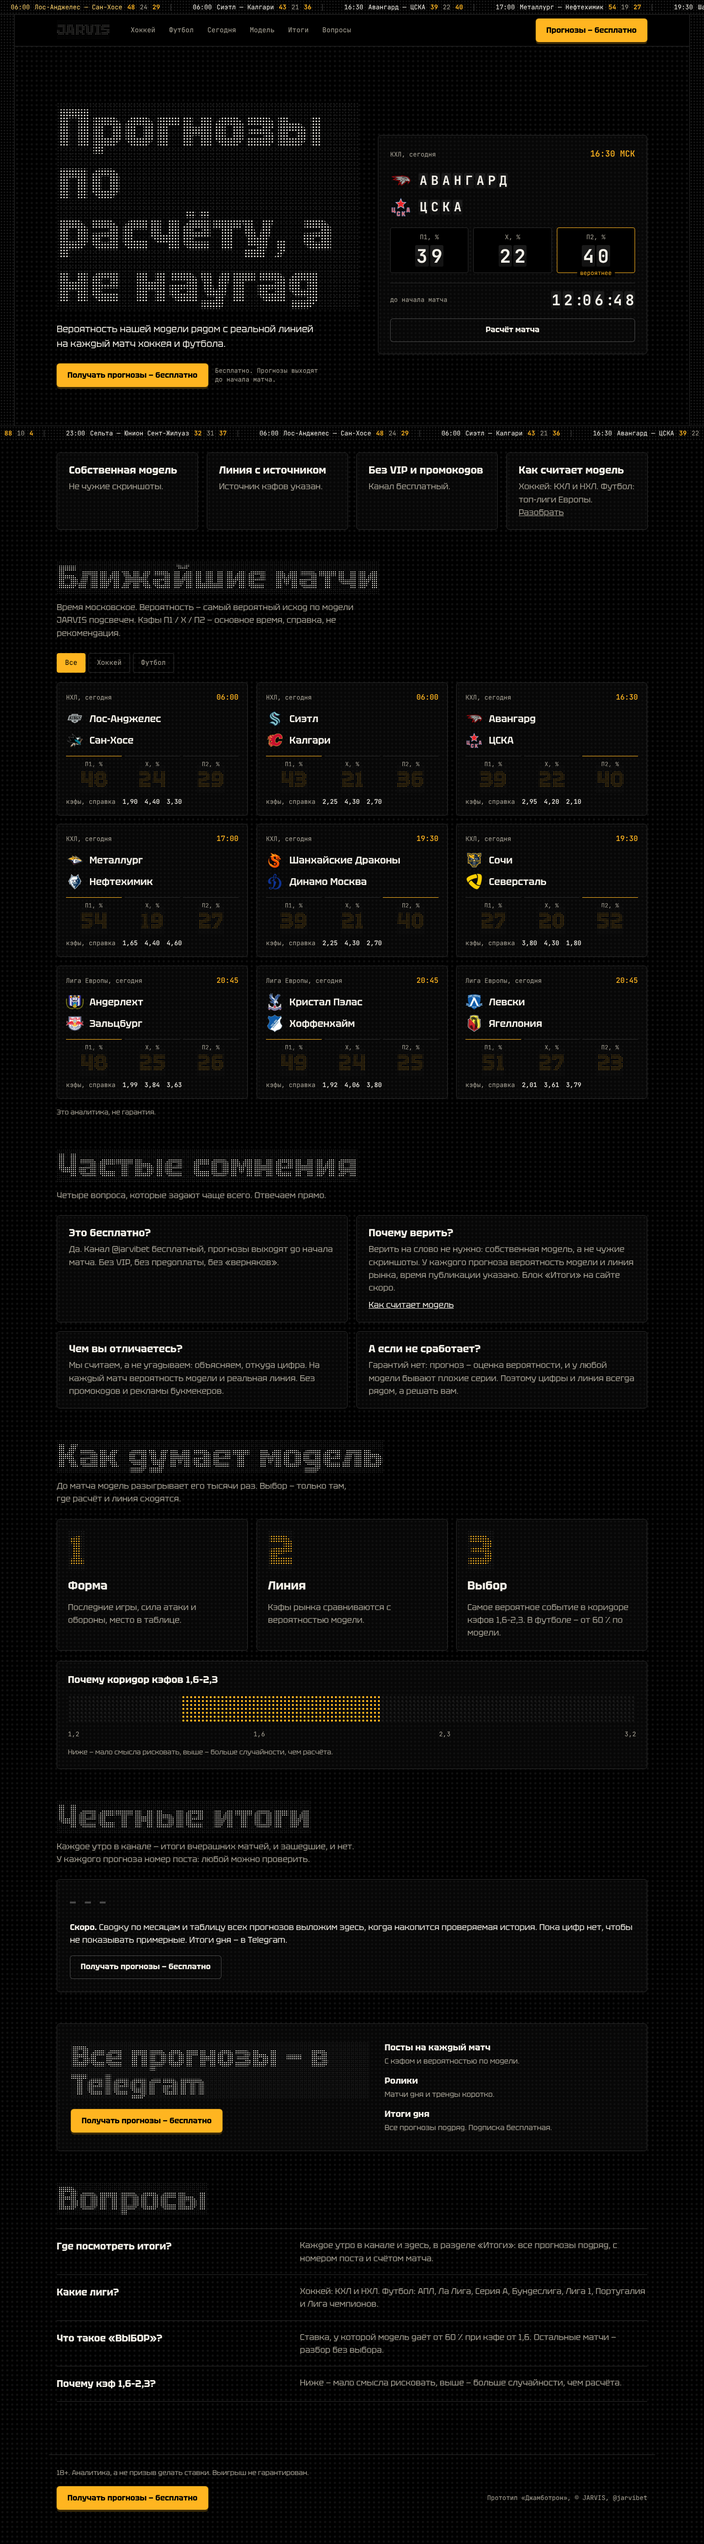
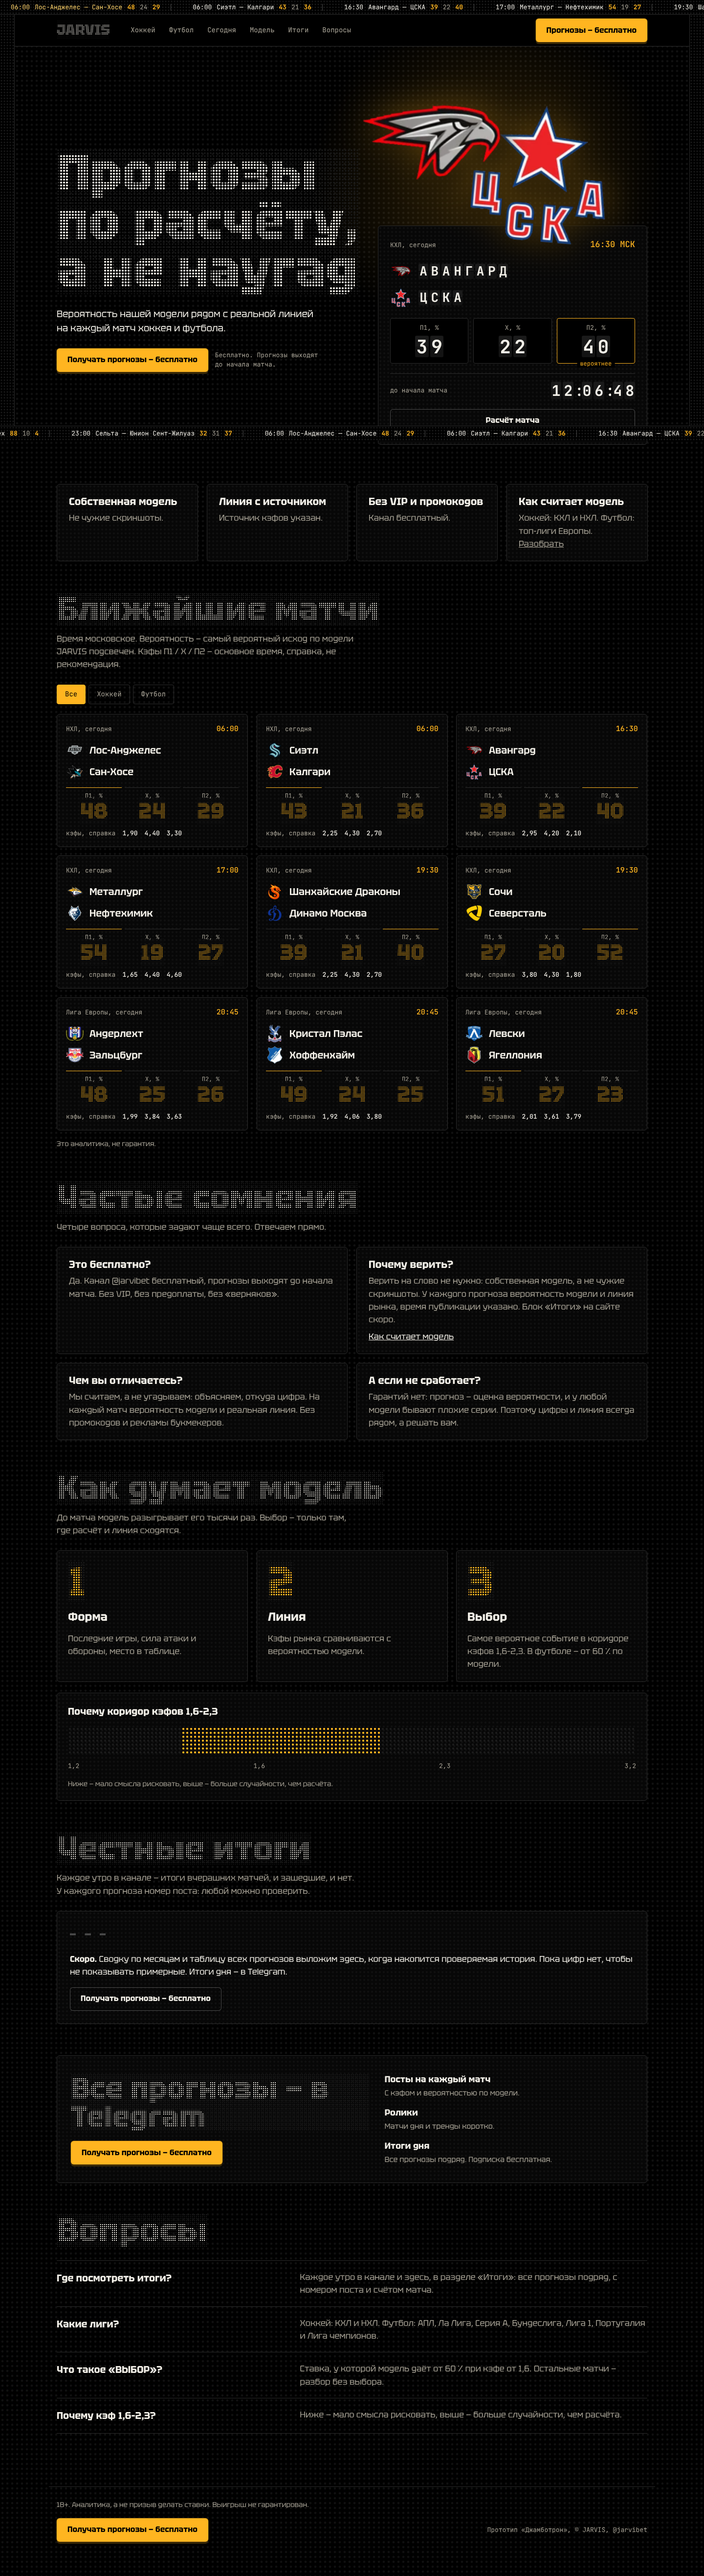
Сайт v3a, jumbo: главная с эмблемами перед светодиодным заголовком
Claude-Session: https://claude.ai/code/session_018beMsGW2KNWUfPTL8TDXYR

diff --git a/team/site/v3a/proto/jumbo/jumbo.css b/team/site/v3a/proto/jumbo/jumbo.css
@@ -50,7 +50,7 @@ button { font: inherit; color: inherit; background: none; border: 0; padding: 0;
   --c: var(--ink); --d: 5px;
   font-family: var(--f-d); font-weight: 800; line-height: 0.98; color: transparent; width: fit-content; max-width: 100%;
   overflow-wrap: break-word; min-width: 0;
-  background-image: radial-gradient(circle at 50% 50%, var(--c) 0 31%, transparent 43%), radial-gradient(circle at 50% 50%, var(--off) 0 31%, transparent 43%);
+  background-image: radial-gradient(circle at 50% 50%, var(--c) 0 40%, transparent 52%), radial-gradient(circle at 50% 50%, var(--off) 0 31%, transparent 43%);
   background-size: var(--d) var(--d);
   -webkit-background-clip: text, border-box; background-clip: text, border-box;
 }
@@ -157,7 +157,20 @@ body.has-ring { padding: var(--ring) 0; }
 
 /* ───────── hero ───────── */
 .hero { display: grid; grid-template-columns: minmax(0, 1.12fr) minmax(0, 1fr); gap: 40px; align-items: center; padding-block: 36px 24px; min-height: calc(100vh - 150px); }
-.hero h1.led { --d: 6px; font-size: clamp(46px, 7.6vw, 108px); margin-bottom: 26px; }
+.hero { position: relative; }
+.hero::before { content: ""; position: absolute; right: -4%; top: -6%; width: 62%; height: 80%; z-index: 0; pointer-events: none;
+  background: radial-gradient(ellipse at 50% 45%, var(--amber-glow), transparent 68%); opacity: 0.55; }
+.hl { position: relative; z-index: 1; }
+.hl h1.led { margin-right: -34%; }
+.hr { position: relative; display: grid; gap: 0; z-index: 2; }
+.objs { position: relative; height: clamp(190px, 24vw, 330px); margin: -30px 0 6px -26%; pointer-events: none; z-index: 3; }
+.objs img { position: absolute; width: clamp(170px, 22vw, 320px); height: auto; aspect-ratio: 1; object-fit: contain; filter: drop-shadow(0 0 34px var(--amber-glow)) drop-shadow(0 14px 22px #000); }
+.objs .o1 { left: 14%; top: 4%; transform: rotate(-6deg); }
+.objs .o2 { left: 46%; top: 22%; transform: rotate(5deg); }
+@media (prefers-reduced-motion: no-preference) { .objs img { animation: bob 7s ease-in-out infinite; } .objs .o2 { animation-delay: -3.5s; } }
+@keyframes bob { 50% { translate: 0 -8px; } }
+@media (max-width: 900px) { .hl h1.led { margin-right: 0; } .objs { margin: -10px 0 -20px 0; height: 190px; } .objs .o1 { left: 6%; } .objs .o2 { left: 40%; } .hero::before { width: 100%; right: 0; } }
+.hero h1.led { --d: 6px; font-size: clamp(44px, 7.3vw, 112px); line-height: 0.94; margin-bottom: 26px; }
 .hero .lead { font-size: 19px; max-width: 44ch; color: var(--ink); margin-bottom: 26px; }
 .hero .acts { display: flex; flex-wrap: wrap; gap: 14px; align-items: center; }
 .hero .acts .lab { max-width: 28ch; }

diff --git a/team/site/v3a/proto/jumbo/index.html b/team/site/v3a/proto/jumbo/index.html
@@ -22,11 +22,13 @@
 
 <main id="main" class="wrap">
 <section class="hero" aria-labelledby="h1">
-  <div>
+  <div class="hl">
     <h1 class="led" id="h1">Прогнозы по расчёту, а не наугад</h1>
     <p class="lead">Вероятность нашей модели рядом с реальной линией на каждый матч хоккея и футбола.</p>
     <div class="acts"><a class="btn" href="https://t.me/jarvibet" rel="noopener">Получать прогнозы — бесплатно</a><span class="lab">Бесплатно. Прогнозы выходят до начала матча.</span></div>
   </div>
+  <div class="hr">
+  <div class="objs" aria-hidden="true"><img class="o2 bd-ai2" src="../../assets/em/cska.webp" alt="" width="320" height="320"><img class="o1 bd-hi2" src="../../assets/em/avangard.webp" alt="" width="320" height="320"></div>
   <aside class="pn bd" id="board" aria-label="Табло дня: матч дня"><i class="wave"></i>
     <div class="top"><span class="lab bd-lg">КХЛ, сегодня</span><b class="bd-tm">16:30 МСК</b></div>
     <div class="names">
@@ -41,6 +43,7 @@
     <div class="cd"><span class="lab">до начала матча</span><span class="flap" id="cd" data-f="12:07:00">12:07:00</span></div>
     <a class="btn ghost" href="match.html">Расчёт матча</a>
   </aside>
+  </div>
 </section>
 
 <section class="sec" aria-label="Что внутри">

diff --git a/team/site/v3a/proto/jumbo/jumbo.js b/team/site/v3a/proto/jumbo/jumbo.js
@@ -160,7 +160,7 @@ function board(m) {
   $('.bd-lg', root).textContent = LG[m.lg] + ', ' + dayWord(m).toLowerCase();
   $('.bd-tm', root).textContent = live(m) ? 'идёт матч' : hhmm(m) + ' МСК';
   $$('.bd-h', root).forEach(e => { e.dataset.f = m.hn; e.setAttribute('aria-label', m.hn); }); $$('.bd-a', root).forEach(e => { e.dataset.f = m.an; });
-  $$('.bd-hi', root).forEach(e => { e.src = emb(m, m.h); }); $$('.bd-ai', root).forEach(e => { e.src = emb(m, m.a); });
+  $$('.bd-hi,.bd-hi2').forEach(e => { e.src = emb(m, m.h); }); $$('.bd-ai,.bd-ai2').forEach(e => { e.src = emb(m, m.a); });
   $$('.pc', root).forEach((c, i) => { c.classList.toggle('max', i === mi); $('.flap', c).dataset.f = String(p0(pr[i][1])); });
   const a = $('a.btn', root); if (a) a.href = href(m);
   root.classList.toggle('live', live(m));
